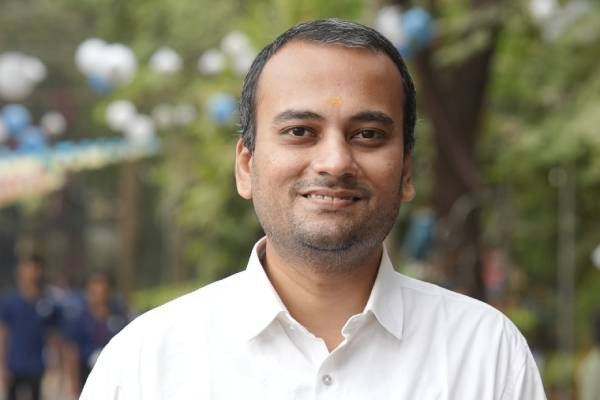
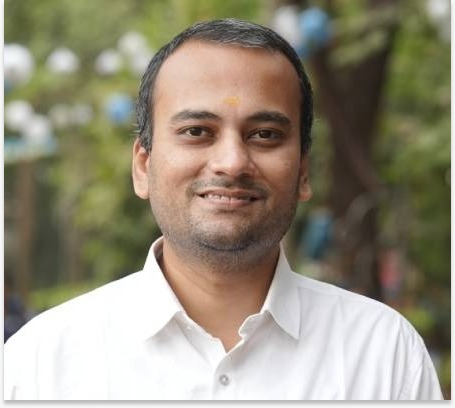
change in images

diff --git a/data/data.tsx b/data/data.tsx
@@ -331,7 +331,7 @@ export const aboutData = {
     {
       name: "Dr. Eldose K K",
       role: "Cheif Coordinator of IEDC and TBI",
-      image: "/images/About/eldhosekk.png",
+      image: "/images/About/eldhosekk.png?height=275&width=300",
     },
     {
       name: "Asst Prof. Eldhose P Sim",
@@ -1004,21 +1004,21 @@ export const excomData = {
       name: "Dr. Jane Smith",
       position: "Faculty Coordinator",
       department: "Computer Science",
-      image: "/placeholder.svg?height=300&width=300",
+      image: "/images/About/eldhosekk.png?height=300&width=300",
       bio: "Dr. Smith has over 15 years of experience in technology entrepreneurship and has mentored numerous successful startups.",
     },
     {
       name: "Prof. John Doe",
       position: "Technical Advisor",
       department: "Electronics",
-      image: "/placeholder.svg?height=300&width=300",
+      image: "/images/About/eldhosekk.png?height=300&width=300",
       bio: "Prof. Doe specializes in product development and has helped students convert their ideas into viable products.",
     },
     {
       name: "Dr. Robert Johnson",
       position: "Industry Liaison",
       department: "Business Administration",
-      image: "/placeholder.svg?height=300&width=300",
+      image: "/images/About/eldhosekk.png?height=300&width=300",
       bio: "Dr. Johnson brings industry connections and expertise in securing funding for early-stage startups.",
     },
   ],

diff --git a/app/page.tsx b/app/page.tsx
@@ -16,7 +16,7 @@ export default function Home() {
             className="absolute inset-0 bg-[url('/images/homelogo.png')] bg-center opacity-10"
             style={{ 
               backgroundImage: "url('/images/homelogo.png')",
-              backgroundSize: "36%",
+              backgroundSize: "36%",  // Changed from 46% to 36% for smaller height
               backgroundRepeat: "no-repeat"
             }}
           ></div>
